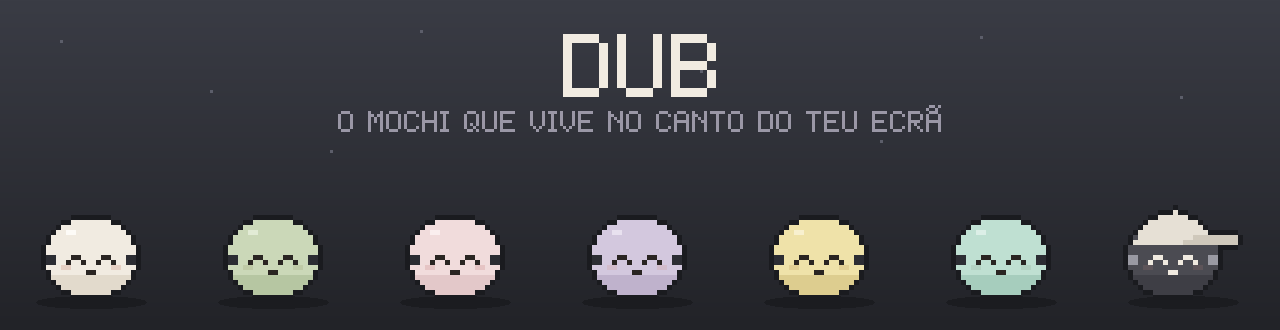
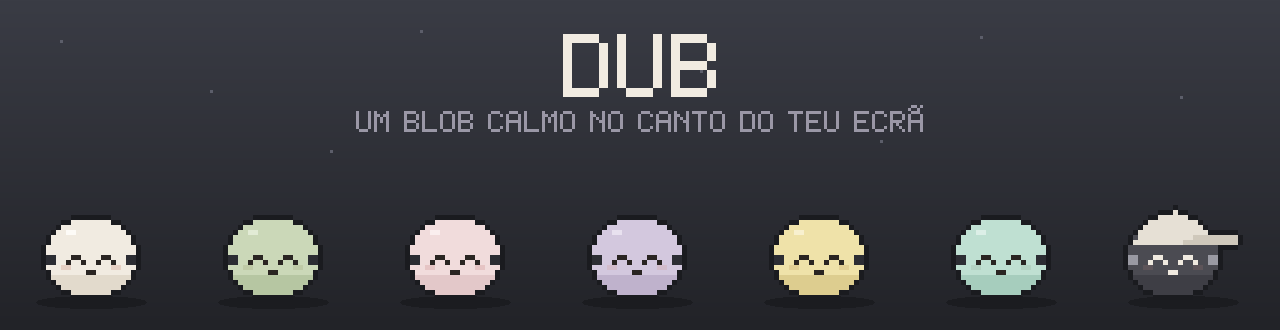
Imagem do README e do instalador sem a palavra "Mochi"

Changed region(s): [[0.25, 0.303, 0.75, 0.4242]]

diff --git a/installer/make_images.py b/installer/make_images.py
@@ -76,7 +76,7 @@ def sidebar(w, h, k):
     s = 6 * k
     pixel_text(img, "DUB", (w - text_w("DUB", s)) // 2, 34 * k, s, CREAM)
     s2 = 2 * k
-    pixel_text(img, "o Mochi", (w - text_w("o Mochi", s2)) // 2, 34 * k + 7 * s + 10 * k, s2, SOFT)
+    pixel_text(img, "blob calmo", (w - text_w("blob calmo", s2)) // 2, 34 * k + 7 * s + 10 * k, s2, SOFT)
     return img
 
 

diff --git a/README.md b/README.md
@@ -1,5 +1,5 @@
 <p align="center">
-  <img src="docs/banner.png" alt="DUB, o Mochi, em várias cores" width="100%">
+  <img src="docs/banner.png" alt="DUB em várias cores" width="100%">
 </p>
 
 # DUB
